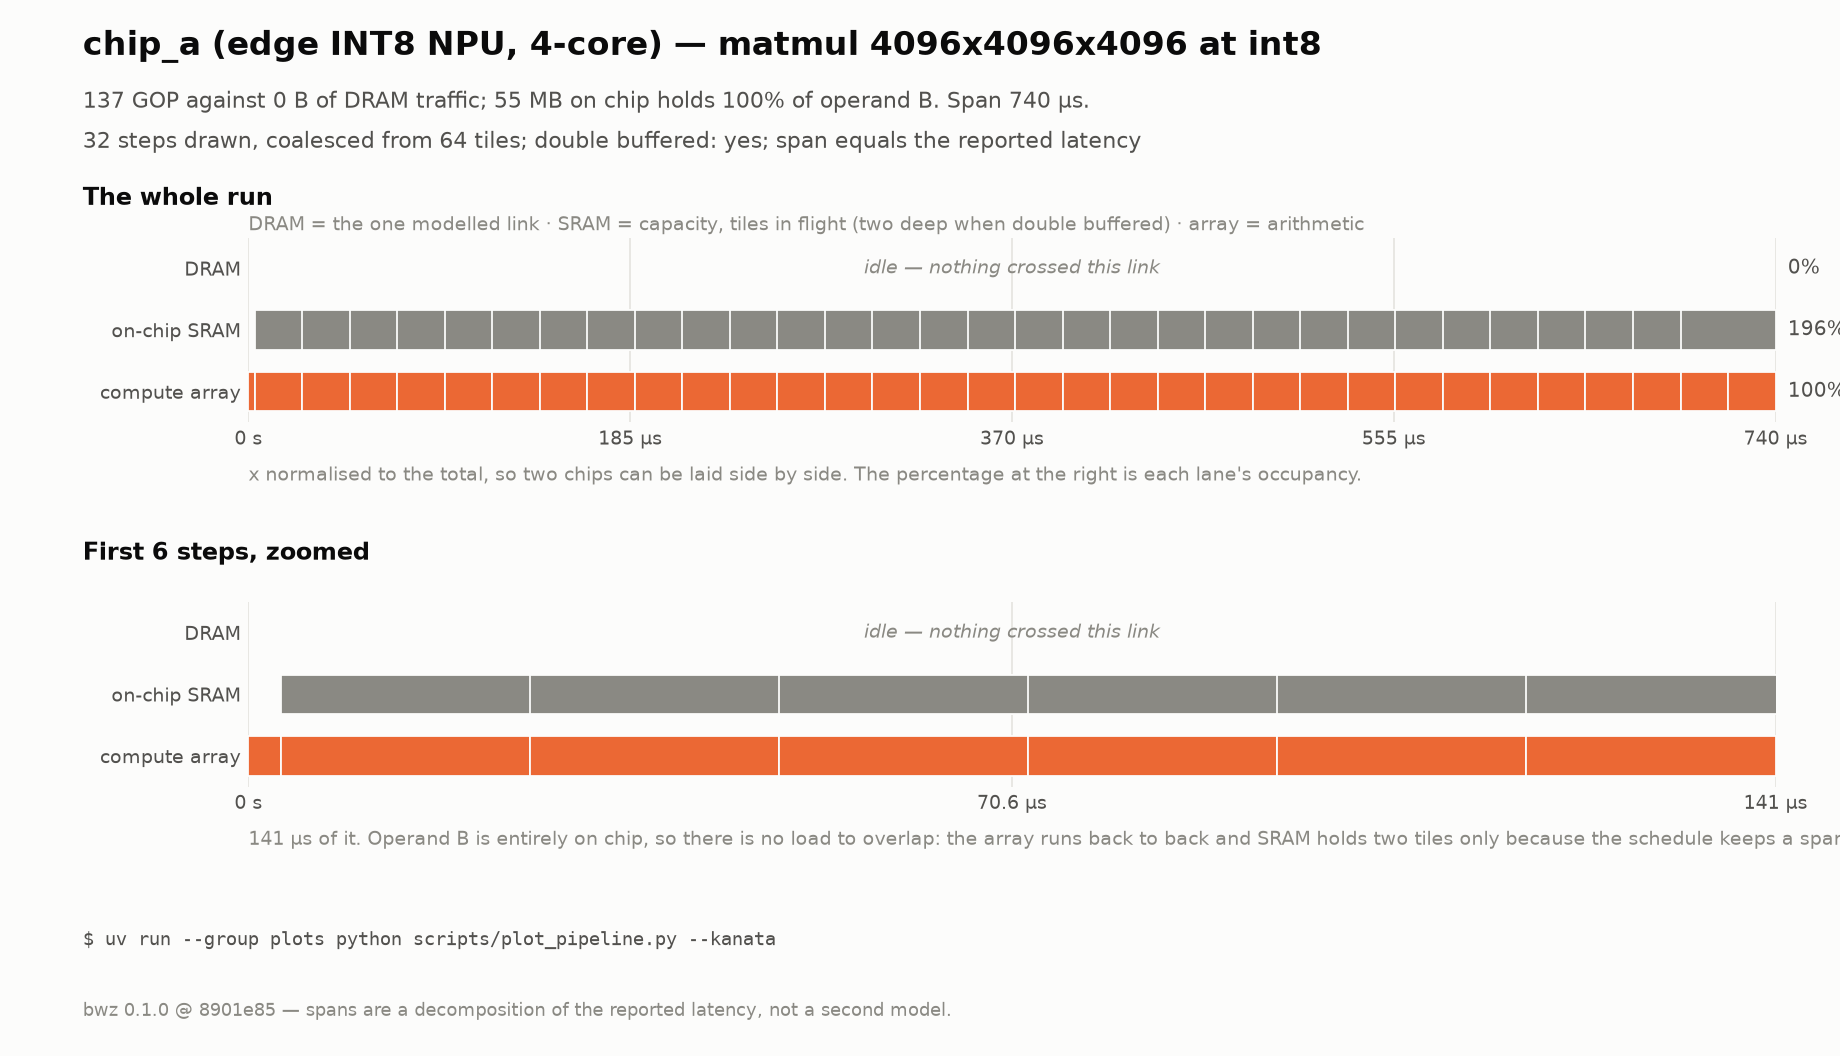
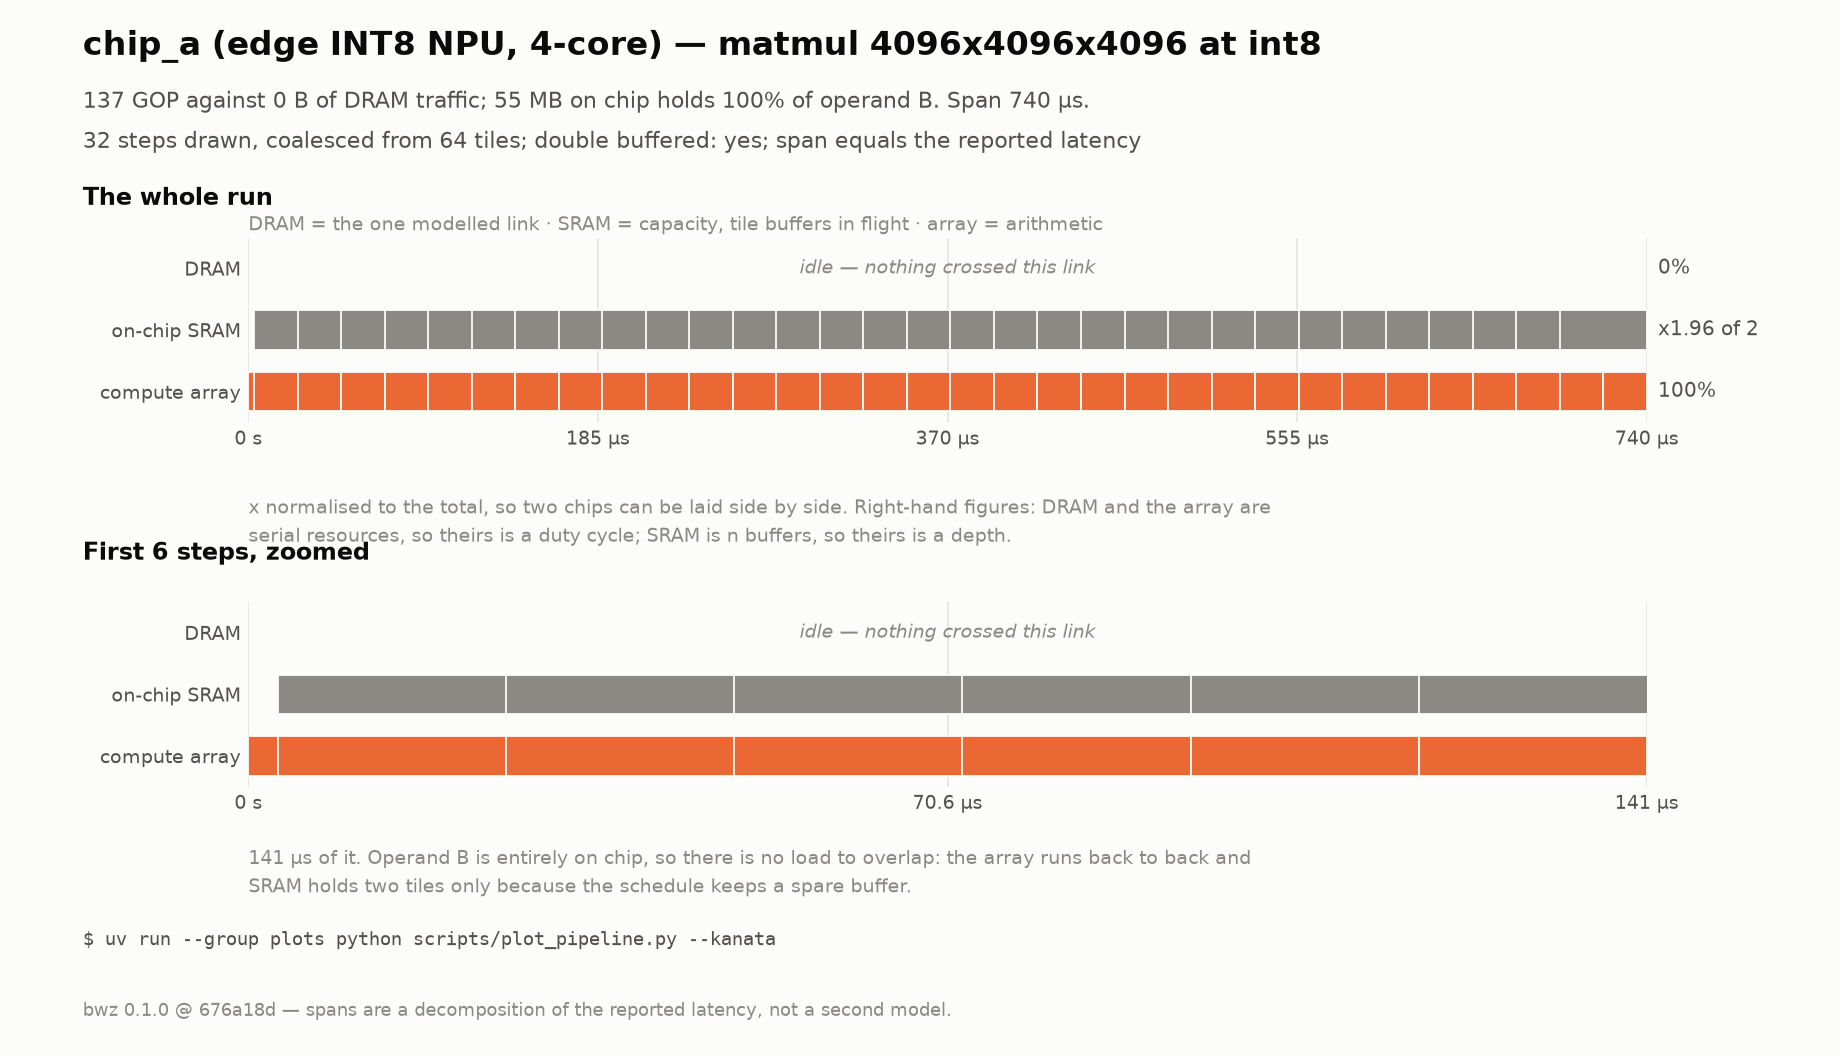
fix(pipeline): report SRAM occupancy as a depth, not a percentage
"How can SRAM be 198%?" — it cannot. The figure was busy/span, which is a duty
cycle for DRAM and the array (single serial resources whose spans never overlap)
but counts *buffers* for SRAM, whose whole job is to hold two tiles at once.
Printing a depth with a duty cycle's unit made a correct schedule read as a
broken one.

PipelineTrace.concurrency now returns (mean, peak) per lane, and each row is
labelled in its own unit:

  dram     23 µs      4% of span
  sram   1.25 ms   1.97 of 2 buf
  core    635 µs    100% of span

Same in the figure (`x1.96 of 2` against `100%`), with the legend saying which
is which. No modelled number changed — the schedule was right, its presentation
was not.

Test pins the distinction: DRAM and core peak at concurrency 1 and mean <= 1;
SRAM peaks at 2 with mean in (1.9, 2.0].

Docs: CLI.md 2.4 and plots/README.md rewritten around the two units, and a
follow-up note appended to D19 rather than editing the original entry.

diff --git a/backend/scripts/plot_pipeline.py b/backend/scripts/plot_pipeline.py
@@ -59,8 +59,7 @@ LANE_TITLE = {
     Lane.CORE: "compute array",
 }
 LANE_LEGEND = (
-    "DRAM = the one modelled link · SRAM = capacity, tiles in flight (two deep when "
-    "double buffered) · array = arithmetic"
+    "DRAM = the one modelled link · SRAM = capacity, tile buffers in flight · array = arithmetic"
 )
 
 
@@ -165,8 +164,8 @@ def draw(
     zoom_steps: int,
 ) -> None:
     fig = plt.figure(figsize=(11.5, 6.6), dpi=160, facecolor=SURFACE)
-    top = fig.add_axes((0.135, 0.600, 0.83, 0.175))
-    bottom = fig.add_axes((0.135, 0.255, 0.83, 0.175))
+    top = fig.add_axes((0.135, 0.600, 0.76, 0.175))
+    bottom = fig.add_axes((0.135, 0.255, 0.76, 0.175))
 
     # -- whole run ---------------------------------------------------------
     _bars(top, list(trace.spans), trace.total_s)
@@ -177,13 +176,17 @@ def draw(
     top.set_xticklabels(
         [format_time(f * trace.total_s) for f in (0, 0.25, 0.5, 0.75, 1.0)], fontsize=8.5
     )
-    busy = trace.busy_s
+    # DRAM and the array are serial resources, so their occupancy is a duty cycle.
+    # SRAM is n buffers, so the same ratio is a depth — labelling both "%" made
+    # two-tiles-resident read as "196% busy".
+    concurrency = trace.concurrency
     for row, lane in enumerate(Lane):
-        share = busy[lane] / trace.total_s if trace.total_s else 0.0
+        mean, peak = concurrency[lane]
+        label = f"x{mean:.2f} of {peak}" if lane is Lane.SRAM else f"{mean:.0%}"
         top.text(
             1.008,
             row + 0.5,
-            f"{share:.0%}",
+            label,
             transform=top.get_yaxis_transform(),
             va="center",
             fontsize=9,
@@ -282,11 +285,17 @@ def _headings(
     )
     fig.text(
         0.135,
-        0.545,
-        "x normalised to the total, so two chips can be laid side by side. "
-        "The percentage at the right is each lane's occupancy.",
+        0.532,
+        textwrap.fill(
+            "x normalised to the total, so two chips can be laid side by side. Right-hand "
+            "figures: DRAM and the array are serial resources, so theirs is a duty cycle; SRAM "
+            "is n buffers, so theirs is a depth.",
+            width=108,
+        ),
         fontsize=8.5,
         color=INK_MUTED,
+        va="top",
+        linespacing=1.5,
     )
 
     fig.text(
@@ -300,9 +309,11 @@ def _headings(
     fig.text(
         0.135,
         0.200,
-        _zoom_caption(trace, cutoff),
+        textwrap.fill(_zoom_caption(trace, cutoff), width=108),
         fontsize=8.5,
         color=INK_MUTED,
+        va="top",
+        linespacing=1.5,
     )
 
 

diff --git a/backend/bwz/analysis/pipeline.py b/backend/bwz/analysis/pipeline.py
@@ -120,11 +120,42 @@ class PipelineTrace:
 
     @property
     def busy_s(self) -> dict[Lane, float]:
-        """Seconds each lane is occupied. The honest denominator for "utilisation
-        of the memory system" as against "of the array"."""
+        """Summed span duration per lane.
+
+        For DRAM and the array this is time occupied, because their spans never
+        overlap — each is a single serial resource. For SRAM it is **not**: a
+        double buffer holds two tiles at once, so the sum runs to about twice the
+        wall clock. Divide it by the span and you get a *depth*, not a duty
+        cycle; :attr:`concurrency` does that division with the right label
+        attached.
+        """
         out = dict.fromkeys(Lane, 0.0)
         for span in self.spans:
             out[span.lane] += span.duration_s
+        return out
+
+    @property
+    def concurrency(self) -> dict[Lane, tuple[float, int]]:
+        """``(mean, peak)`` spans in flight per lane.
+
+        The mean is ``busy_s / total_s`` — a time-average count of how many
+        things that resource was holding at once. For DRAM and the array it
+        cannot exceed 1 and reads as a duty cycle. For SRAM it is the number of
+        tile buffers occupied, which is 2 under double buffering and 1 without;
+        reporting *that* as a percentage is what made a correct schedule look
+        like a broken one.
+        """
+        busy = self.busy_s
+        out: dict[Lane, tuple[float, int]] = {}
+        for lane in Lane:
+            spans = [s for s in self.spans if s.lane is lane]
+            edges = sorted([(s.start_s, 1) for s in spans] + [(s.end_s, -1) for s in spans])
+            peak = live = 0
+            for _at, delta in edges:
+                live += delta
+                peak = max(peak, live)
+            mean = busy[lane] / self.total_s if self.total_s > 0 else 0.0
+            out[lane] = (mean, peak)
         return out
 
 

diff --git a/backend/bwz/cli.py b/backend/bwz/cli.py
@@ -395,21 +395,33 @@ def _pipeline_note(trace: PipelineTrace) -> str:
 
 
 def _lane_table(trace: PipelineTrace) -> Table:
-    """Who was busy, and for how long. The picture in five rows."""
+    """Who was busy, and for how long.
+
+    DRAM and the array are single serial resources, so their occupancy is a duty
+    cycle and cannot exceed 100%. SRAM is not a serial resource — it is *n*
+    buffers — so the same arithmetic gives a depth, and printing it as a
+    percentage made "two tiles resident throughout" read as "198% busy". The
+    column therefore carries its own unit per row.
+    """
     table = Table(title="Pipeline", box=box.SIMPLE)
     table.add_column("lane")
     table.add_column("busy", justify="right")
-    table.add_column("of span", justify="right")
+    table.add_column("occupancy", justify="right")
     table.add_column("what it was doing")
     busy = trace.busy_s
+    concurrency = trace.concurrency
     descriptions = {
         Lane.DRAM: "streaming operand tiles across the one modelled link",
-        Lane.SRAM: "holding tiles from fetch to use — two at once when double buffered",
+        Lane.SRAM: "tile buffers held from fetch to use",
         Lane.CORE: "arithmetic, plus one dispatch",
     }
     for lane in Lane:
-        share = busy[lane] / trace.total_s if trace.total_s > 0 else 0.0
-        table.add_row(lane.value, format_time(busy[lane]), f"{share:.0%}", descriptions[lane])
+        mean, peak = concurrency[lane]
+        if lane is Lane.SRAM:
+            occupancy = f"{mean:.2f} of {peak} buf" if peak else "—"
+        else:
+            occupancy = f"{mean:.0%} of span"
+        table.add_row(lane.value, format_time(busy[lane]), occupancy, descriptions[lane])
     return table
 
 

diff --git a/backend/tests/unit/test_pipeline.py b/backend/tests/unit/test_pipeline.py
@@ -103,6 +103,28 @@ def test_double_buffering_holds_exactly_two_tiles() -> None:
     assert depth == 2
 
 
+def test_concurrency_reads_as_a_depth_not_a_duty_cycle() -> None:
+    """SRAM occupancy is ~2 because two buffers are held, not because a resource
+    was busy 198% of the time.
+
+    DRAM and the array are single serial resources: their spans never overlap, so
+    their mean concurrency is a duty cycle and cannot exceed 1. SRAM is *n*
+    buffers, so the same ratio counts buffers. Reporting the second as a
+    percentage is what made a correct schedule look broken.
+    """
+    trace, _ = _trace(_spec(10_000, 10_000, 10_000), "a100_80gb")
+    concurrency = trace.concurrency
+
+    dram_mean, dram_peak = concurrency[Lane.DRAM]
+    core_mean, core_peak = concurrency[Lane.CORE]
+    sram_mean, sram_peak = concurrency[Lane.SRAM]
+
+    assert dram_peak == core_peak == 1
+    assert dram_mean <= 1.0 and core_mean <= 1.0
+    assert sram_peak == 2
+    assert 1.9 < sram_mean <= 2.0
+
+
 def test_fill_drain_is_one_step_of_the_non_binding_resource() -> None:
     """total = max(t_dram, t_compute) + min(t_dram, t_compute)/steps.
 

diff --git a/docs/CLI.md b/docs/CLI.md
@@ -130,16 +130,20 @@ uv run bwz matmul -M 4096 -N 4096 -K 4096 -c a100_80gb -d fp16
 ```
 
 ```
-  lane     busy   of span   what it was doing
-  dram     23 µs       4%   streaming operand tiles across the one modelled link
-  sram   1.25 ms     197%   holding tiles from fetch to use — two at once when double buffered
-  core    635 µs     100%   arithmetic, plus one dispatch
+  lane      busy       occupancy   what it was doing
+  dram     23 µs      4% of span   streaming operand tiles across the one modelled link
+  sram   1.25 ms   1.97 of 2 buf   tile buffers held from fetch to use
+  core    635 µs    100% of span   arithmetic, plus one dispatch
 
   64 steps drawn, coalesced from 65536 tiles, double buffered.
 ```
 
-SRAM at ~197% is the double buffer: two tiles resident at once. That is capacity, not bandwidth,
-which is the whole of what SRAM contributes in this model.
+**The occupancy column carries a different unit per row, on purpose.** DRAM and the array are
+single serial resources — their spans never overlap — so theirs is a duty cycle and cannot exceed
+100%. SRAM is not a resource that is busy or idle; it is *n* buffers, and the same arithmetic
+counts how many were occupied: `1.97 of 2` means both halves of the double buffer were in use
+almost all the time. That is capacity, not bandwidth, which is the whole of what SRAM contributes
+in this model.
 
 ---
 
@@ -283,6 +287,6 @@ cd backend && uv run pytest tests/unit/test_pipeline.py::test_double_buffering_h
 | 5.88% = 1/17 at M=1 | §2.2 | `docs/MODEL.md` §6.1 |
 | result width changes bytes only | §2.3 | `docs/CORRECTIONS.md` D18 |
 | mixed operands run at the wider | §2.3 | `docs/CORRECTIONS.md` D18 |
-| SRAM 197% = two tiles | §2.4 | `docs/MODEL.md` §6.5, D19 |
+| SRAM depth 1.97 of 2 buffers | §2.4 | `docs/MODEL.md` §6.5, D19 |
 | 1.40% residency on chip_a | §3 | `docs/CORRECTIONS.md` D8, D15 |
 | traffic is a lower bound when the working set does not fit | every report's assumptions | `docs/MODEL.md` §6.2 |

diff --git a/docs/CORRECTIONS.md b/docs/CORRECTIONS.md
@@ -480,8 +480,16 @@ Fixing the latency itself would move every number in the repo and belongs with c
 **2. Double buffering means depth two, and the schedule has to say so.** The first draft let a
 tile be fetched as soon as DRAM was free, which put all 64 tiles on chip at once — SRAM occupancy
 came out at 3237% of the span. The missing constraint is the buffer being freed:
-`load_start(i) >= compute_end(i - depth)`. With it, occupancy is exactly 196%, i.e. two tiles
-throughout, which is what "double buffered" means and what capacity planning granted.
+`load_start(i) >= compute_end(i - depth)`. With it, occupancy is two tiles throughout, which is
+what "double buffered" means and what capacity planning granted.
+
+> **Follow-up (2026-08-17):** it was reported as "196%", and the user rightly asked how SRAM can be
+> 198% occupied. It cannot — that figure was a *depth* printed with a duty cycle's unit. DRAM and
+> the array are single serial resources whose spans never overlap, so `busy/span` is a fraction of
+> time for them; SRAM is *n* buffers, so the same ratio counts buffers. `PipelineTrace.concurrency`
+> now returns `(mean, peak)` per lane and the CLI and figure label each row in its own unit —
+> `100% of span` for the array, `1.97 of 2 buf` for SRAM. No number changed; the schedule was
+> right and its presentation was not.
 
 **3. Coalescing must not re-schedule.** 390 625 tiles cannot be drawn, and 451 graph nodes should
 not be. Grouping them, a group's duration is the **sum of its members' latencies**, not the latency

diff --git a/docs/plots/README.md b/docs/plots/README.md
@@ -45,8 +45,11 @@ array. The x axis is normalised to the total time in both registers, which is wh
 comparable when their absolute times differ by orders of magnitude; absolute figures are on the
 ticks.
 
-SRAM occupancy reads ~196% because a double buffer holds two tiles at once. That is the point:
-capacity, not bandwidth, is what SRAM contributes (D5a).
+The right-hand figure carries a different unit per lane. DRAM and the array are single serial
+resources, so theirs is a **duty cycle** — the fraction of the span they were busy, never above
+100%. SRAM is *n* buffers rather than a resource that is busy or idle, so theirs is a **depth**:
+`x1.96 of 2` means both halves of the double buffer were occupied almost all the time. Capacity,
+not bandwidth, is what SRAM contributes (D5a).
 
 The spans are a **decomposition** of the reported latency, not a second model — DRAM busy sums to
 `t_dram`, core busy to `t_compute + t_fixed`, and the tile count is the same one the utilisation
